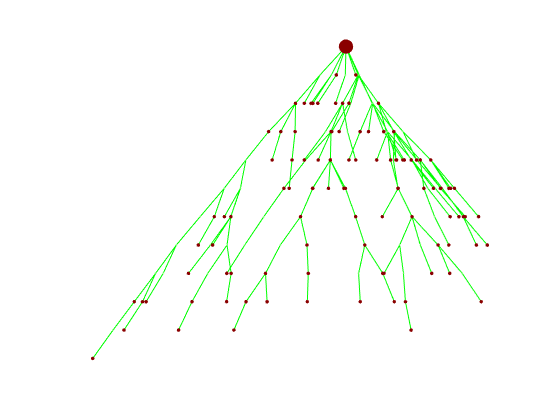
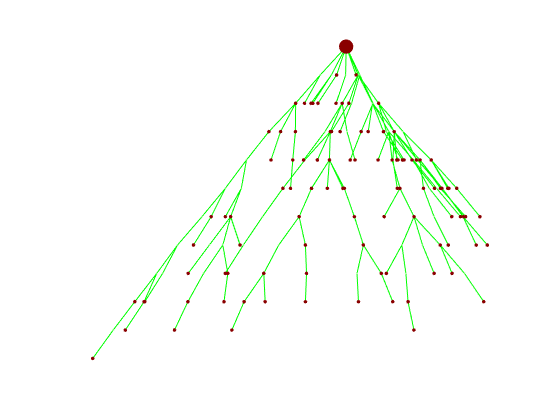
update demonstration

diff --git a/docs/index.html b/docs/index.html
@@ -6,7 +6,7 @@
    <!--
 This HTML was auto-generated from MATLAB code.
 To make changes, update the MATLAB code and republish this document.
-      --><title>index</title><meta name="generator" content="MATLAB 9.2"><link rel="schema.DC" href="http://purl.org/dc/elements/1.1/"><meta name="DC.date" content="2018-01-30"><meta name="DC.source" content="index.m"><style type="text/css">
+      --><title>Grow Lineages along Minimum Spanning Tree for B Cell Recptor Seqeuence Data</title><meta name="generator" content="MATLAB 9.2"><link rel="schema.DC" href="http://purl.org/dc/elements/1.1/"><meta name="DC.date" content="2018-01-30"><meta name="DC.source" content="index.m"><style type="text/css">
 html,body,div,span,applet,object,iframe,h1,h2,h3,h4,h5,h6,p,blockquote,pre,a,abbr,acronym,address,big,cite,code,del,dfn,em,font,img,ins,kbd,q,s,samp,small,strike,strong,sub,sup,tt,var,b,u,i,center,dl,dt,dd,ol,ul,li,fieldset,form,label,legend,table,caption,tbody,tfoot,thead,tr,th,td{margin:0;padding:0;border:0;outline:0;font-size:100%;vertical-align:baseline;background:transparent}body{line-height:1}ol,ul{list-style:none}blockquote,q{quotes:none}blockquote:before,blockquote:after,q:before,q:after{content:'';content:none}:focus{outine:0}ins{text-decoration:none}del{text-decoration:line-through}table{border-collapse:collapse;border-spacing:0}
 
 html { min-height:100%; margin-bottom:1px; }
@@ -66,7 +66,7 @@ table td { padding:7px 5px; text-align:left; vertical-align:top; border:1px soli
 
 
 
-  </style></head><body><div class="content"><h2>Contents</h2><div><ul><li><a href="#1">Prepare Environment</a></li><li><a href="#2">Simulate data</a></li><li><a href="#3">Run GLaMST and visualize the results</a></li><li><a href="#4">Generate lineage tree from real data</a></li></ul></div><h2 id="1">Prepare Environment</h2><p>Set working directory to the upzipped folder. If your matlab does not have C/C++ compiler setup, need to first install MinGW, instructions at following link (Home-&gt;Add-Ons-&gt;search MinGW-&gt;install) <a href="https://www.mathworks.com/help/matlab/matlab_external/install-mingw-support-package.html">https://www.mathworks.com/help/matlab/matlab_external/install-mingw-support-package.html</a></p><pre class="codeinput">restoredefaultpath;
+  </style></head><body><div class="content"><h1>Grow Lineages along Minimum Spanning Tree for B Cell Recptor Seqeuence Data</h1><!--introduction--><p>This page provides some examples of using source code version of GLaMST.</p><!--/introduction--><h2>Contents</h2><div><ul><li><a href="#1">Prepare environment</a></li><li><a href="#2">Simulate data</a></li><li><a href="#3">Run GLaMST and visualize the results</a></li><li><a href="#4">Generate lineage tree from real data</a></li></ul></div><h2 id="1">Prepare environment</h2><p>Set working directory to the upzipped folder. If your matlab does not have C/C++ compiler setup, need to first install MinGW, instructions at following link (Home-&gt;Add-Ons-&gt;search MinGW-&gt;install) <a href="https://www.mathworks.com/help/matlab/matlab_external/install-mingw-support-package.html">https://www.mathworks.com/help/matlab/matlab_external/install-mingw-support-package.html</a></p><pre class="codeinput">restoredefaultpath;
 addpath <span class="string">lib</span>
 addpath <span class="string">src</span>
 <span class="comment">% If your matlab does not have C/C++ copmiler setup, also run</span>
@@ -91,154 +91,68 @@ draw_hierarchy_tree(adj, is_selected');
     reconstruct_tree_minimun_tree_size(observed_sequences);
 draw_hierarchy_tree(reconstructed_directed_adj, reconstructed_is_selected);
 </pre><pre class="codeoutput">Reconstruction:
-    Initialization compute pairwise edit distance:   100 /   101Elapsed time is 2.063209 seconds.
-    Iteratived build the tree:     1 /   100    Iteratived build the tree:     2 /   100Elapsed time is 0.097324 seconds.
-    Iteratived build the tree:     3 /    99Elapsed time is 0.057774 seconds.
-    Iteratived build the tree:     4 /    98Elapsed time is 0.057003 seconds.
-    Iteratived build the tree:     5 /    98Elapsed time is 0.097420 seconds.
-    Iteratived build the tree:     6 /    97Elapsed time is 0.058706 seconds.
-    Iteratived build the tree:     7 /    96Elapsed time is 0.057239 seconds.
-    Iteratived build the tree:     8 /    96Elapsed time is 0.092075 seconds.
-    Iteratived build the tree:     9 /    96Elapsed time is 0.092663 seconds.
-    Iteratived build the tree:    10 /    95Elapsed time is 0.066948 seconds.
-    Iteratived build the tree:    11 /    95Elapsed time is 0.093314 seconds.
-    Iteratived build the tree:    12 /    95Elapsed time is 0.097233 seconds.
-    Iteratived build the tree:    13 /    94Elapsed time is 0.063328 seconds.
-    Iteratived build the tree:    14 /    94Elapsed time is 0.096990 seconds.
-    Iteratived build the tree:    15 /    93Elapsed time is 0.055171 seconds.
-    Iteratived build the tree:    16 /    92Elapsed time is 0.054795 seconds.
-    Iteratived build the tree:    17 /    92Elapsed time is 0.094328 seconds.
-    Iteratived build the tree:    18 /    91Elapsed time is 0.074787 seconds.
-    Iteratived build the tree:    19 /    90Elapsed time is 0.055302 seconds.
-    Iteratived build the tree:    20 /    90Elapsed time is 0.092734 seconds.
-    Iteratived build the tree:    21 /    89Elapsed time is 0.053776 seconds.
-    Iteratived build the tree:    22 /    88Elapsed time is 0.053098 seconds.
-    Iteratived build the tree:    23 /    87Elapsed time is 0.052712 seconds.
-    Iteratived build the tree:    24 /    87Elapsed time is 0.094187 seconds.
-    Iteratived build the tree:    25 /    87Elapsed time is 0.093970 seconds.
-    Iteratived build the tree:    26 /    86Elapsed time is 0.053987 seconds.
-    Iteratived build the tree:    27 /    85Elapsed time is 0.053594 seconds.
-    Iteratived build the tree:    28 /    84Elapsed time is 0.052939 seconds.
-    Iteratived build the tree:    29 /    83Elapsed time is 0.052698 seconds.
-    Iteratived build the tree:    30 /    83Elapsed time is 0.093515 seconds.
-    Iteratived build the tree:    31 /    83Elapsed time is 0.094099 seconds.
-    Iteratived build the tree:    32 /    83Elapsed time is 0.100089 seconds.
-    Iteratived build the tree:    33 /    82Elapsed time is 0.073351 seconds.
-    Iteratived build the tree:    34 /    82Elapsed time is 0.119826 seconds.
-    Iteratived build the tree:    35 /    81Elapsed time is 0.054922 seconds.
-    Iteratived build the tree:    36 /    81Elapsed time is 0.095595 seconds.
-    Iteratived build the tree:    37 /    80Elapsed time is 0.052479 seconds.
-    Iteratived build the tree:    38 /    80Elapsed time is 0.096076 seconds.
-    Iteratived build the tree:    39 /    79Elapsed time is 0.052370 seconds.
-    Iteratived build the tree:    40 /    78Elapsed time is 0.052210 seconds.
-    Iteratived build the tree:    41 /    78Elapsed time is 0.096447 seconds.
-    Iteratived build the tree:    42 /    77Elapsed time is 0.053584 seconds.
-    Iteratived build the tree:    43 /    76Elapsed time is 0.055781 seconds.
-    Iteratived build the tree:    44 /    76Elapsed time is 0.096923 seconds.
-    Iteratived build the tree:    45 /    75Elapsed time is 0.052403 seconds.
-    Iteratived build the tree:    46 /    74Elapsed time is 0.050937 seconds.
-    Iteratived build the tree:    47 /    73Elapsed time is 0.053455 seconds.
-    Iteratived build the tree:    48 /    73Elapsed time is 0.103933 seconds.
-    Iteratived build the tree:    49 /    72Elapsed time is 0.058678 seconds.
-    Iteratived build the tree:    50 /    71Elapsed time is 0.055317 seconds.
-    Iteratived build the tree:    51 /    70Elapsed time is 0.058069 seconds.
-    Iteratived build the tree:    52 /    69Elapsed time is 0.051343 seconds.
-    Iteratived build the tree:    53 /    68Elapsed time is 0.056700 seconds.
-    Iteratived build the tree:    54 /    68Elapsed time is 0.096008 seconds.
-    Iteratived build the tree:    55 /    67Elapsed time is 0.051301 seconds.
-    Iteratived build the tree:    56 /    66Elapsed time is 0.050802 seconds.
-    Iteratived build the tree:    57 /    66Elapsed time is 0.094922 seconds.
-    Iteratived build the tree:    58 /    65Elapsed time is 0.048600 seconds.
-    Iteratived build the tree:    59 /    64Elapsed time is 0.047914 seconds.
-    Iteratived build the tree:    60 /    63Elapsed time is 0.048086 seconds.
-    Iteratived build the tree:    61 /    62Elapsed time is 0.048302 seconds.
-    Iteratived build the tree:    62 /    62Elapsed time is 0.093667 seconds.
-    Iteratived build the tree:    63 /    61Elapsed time is 0.049048 seconds.
-    Iteratived build the tree:    64 /    61Elapsed time is 0.101637 seconds.
-    Iteratived build the tree:    65 /    60Elapsed time is 0.048189 seconds.
-    Iteratived build the tree:    66 /    59Elapsed time is 0.047870 seconds.
-    Iteratived build the tree:    67 /    58Elapsed time is 0.046675 seconds.
-    Iteratived build the tree:    68 /    57Elapsed time is 0.047349 seconds.
-    Iteratived build the tree:    69 /    56Elapsed time is 0.051590 seconds.
-    Iteratived build the tree:    70 /    55Elapsed time is 0.046293 seconds.
-    Iteratived build the tree:    71 /    55Elapsed time is 0.089495 seconds.
-    Iteratived build the tree:    72 /    54Elapsed time is 0.047590 seconds.
-    Iteratived build the tree:    73 /    54Elapsed time is 0.090626 seconds.
-    Iteratived build the tree:    74 /    53Elapsed time is 0.045832 seconds.
-    Iteratived build the tree:    75 /    52Elapsed time is 0.043632 seconds.
-    Iteratived build the tree:    76 /    51Elapsed time is 0.041963 seconds.
-    Iteratived build the tree:    77 /    50Elapsed time is 0.042059 seconds.
-    Iteratived build the tree:    78 /    49Elapsed time is 0.040300 seconds.
-    Iteratived build the tree:    79 /    48Elapsed time is 0.040195 seconds.
-    Iteratived build the tree:    80 /    48Elapsed time is 0.085666 seconds.
-    Iteratived build the tree:    81 /    47Elapsed time is 0.040191 seconds.
-    Iteratived build the tree:    82 /    46Elapsed time is 0.053747 seconds.
-    Iteratived build the tree:    83 /    45Elapsed time is 0.040425 seconds.
-    Iteratived build the tree:    84 /    44Elapsed time is 0.041344 seconds.
-    Iteratived build the tree:    85 /    44Elapsed time is 0.095211 seconds.
-    Iteratived build the tree:    86 /    43Elapsed time is 0.039994 seconds.
-    Iteratived build the tree:    87 /    43Elapsed time is 0.085759 seconds.
-    Iteratived build the tree:    88 /    42Elapsed time is 0.041693 seconds.
-    Iteratived build the tree:    89 /    41Elapsed time is 0.039587 seconds.
-    Iteratived build the tree:    90 /    41Elapsed time is 0.087935 seconds.
-    Iteratived build the tree:    91 /    40Elapsed time is 0.037178 seconds.
-    Iteratived build the tree:    92 /    39Elapsed time is 0.041629 seconds.
-    Iteratived build the tree:    93 /    38Elapsed time is 0.036061 seconds.
-    Iteratived build the tree:    94 /    37Elapsed time is 0.036564 seconds.
-    Iteratived build the tree:    95 /    36Elapsed time is 0.030875 seconds.
-    Iteratived build the tree:    96 /    35Elapsed time is 0.030464 seconds.
-    Iteratived build the tree:    97 /    34Elapsed time is 0.029607 seconds.
-    Iteratived build the tree:    98 /    33Elapsed time is 0.028958 seconds.
-    Iteratived build the tree:    99 /    32Elapsed time is 0.029557 seconds.
-    Iteratived build the tree:   100 /    31Elapsed time is 0.027587 seconds.
-    Iteratived build the tree:   101 /    30Elapsed time is 0.026431 seconds.
-    Iteratived build the tree:   102 /    29Elapsed time is 0.025121 seconds.
-    Iteratived build the tree:   103 /    28Elapsed time is 0.024856 seconds.
-    Iteratived build the tree:   104 /    27Elapsed time is 0.024176 seconds.
-    Iteratived build the tree:   105 /    27Elapsed time is 0.070279 seconds.
-    Iteratived build the tree:   106 /    26Elapsed time is 0.025747 seconds.
-    Iteratived build the tree:   107 /    25Elapsed time is 0.022441 seconds.
-    Iteratived build the tree:   108 /    24Elapsed time is 0.022101 seconds.
-    Iteratived build the tree:   109 /    24Elapsed time is 0.067976 seconds.
-    Iteratived build the tree:   110 /    23Elapsed time is 0.022293 seconds.
-    Iteratived build the tree:   111 /    22Elapsed time is 0.020540 seconds.
-    Iteratived build the tree:   112 /    21Elapsed time is 0.019641 seconds.
-    Iteratived build the tree:   113 /    21Elapsed time is 0.068744 seconds.
-    Iteratived build the tree:   114 /    20Elapsed time is 0.019082 seconds.
-    Iteratived build the tree:   115 /    19Elapsed time is 0.018356 seconds.
-    Iteratived build the tree:   116 /    19Elapsed time is 0.067131 seconds.
-    Iteratived build the tree:   117 /    18Elapsed time is 0.019570 seconds.
-    Iteratived build the tree:   118 /    18Elapsed time is 0.065829 seconds.
-    Iteratived build the tree:   119 /    18Elapsed time is 0.065863 seconds.
-    Iteratived build the tree:   120 /    17Elapsed time is 0.016696 seconds.
-    Iteratived build the tree:   121 /    16Elapsed time is 0.016216 seconds.
-    Iteratived build the tree:   122 /    15Elapsed time is 0.016266 seconds.
-    Iteratived build the tree:   123 /    14Elapsed time is 0.014102 seconds.
-    Iteratived build the tree:   124 /    14Elapsed time is 0.064317 seconds.
-    Iteratived build the tree:   125 /    13Elapsed time is 0.016343 seconds.
-    Iteratived build the tree:   126 /    12Elapsed time is 0.012204 seconds.
-    Iteratived build the tree:   127 /    11Elapsed time is 0.011262 seconds.
-    Iteratived build the tree:   128 /    11Elapsed time is 0.059521 seconds.
-    Iteratived build the tree:   129 /    10Elapsed time is 0.010530 seconds.
-    Iteratived build the tree:   130 /     9Elapsed time is 0.009567 seconds.
-    Iteratived build the tree:   131 /     8Elapsed time is 0.008683 seconds.
-    Iteratived build the tree:   132 /     8Elapsed time is 0.057772 seconds.
-    Iteratived build the tree:   133 /     7Elapsed time is 0.008702 seconds.
-    Iteratived build the tree:   134 /     6Elapsed time is 0.007783 seconds.
-    Iteratived build the tree:   135 /     5Elapsed time is 0.006527 seconds.
-    Iteratived build the tree:   136 /     5Elapsed time is 0.056364 seconds.
-    Iteratived build the tree:   137 /     4Elapsed time is 0.006104 seconds.
-    Iteratived build the tree:   138 /     3Elapsed time is 0.005279 seconds.
-    Iteratived build the tree:   139 /     3Elapsed time is 0.054277 seconds.
-    Iteratived build the tree:   140 /     2Elapsed time is 0.005885 seconds.
-    Iteratived build the tree:   141 /     2Elapsed time is 0.078826 seconds.
-    Iteratived build the tree:   142 /     1Elapsed time is 0.003664 seconds.
-    Iteratived build the tree:   143 /     0Elapsed time is 0.003433 seconds.
+    Initialization compute pairwise edit distance:   100 /   101Elapsed time is 2.069024 seconds.
+    Iteratived build the tree:     1 /   100    
+    Iteratived build the tree:     2 /   100Elapsed time is 0.110925 seconds.
+    Iteratived build the tree:     3 /    99Elapsed time is 0.065030 seconds.
+    Iteratived build the tree:     4 /    98Elapsed time is 0.060818 seconds.
+    Iteratived build the tree:     5 /    98Elapsed time is 0.095147 seconds.
+    Iteratived build the tree:     6 /    97Elapsed time is 0.065485 seconds.
+    Iteratived build the tree:     7 /    96Elapsed time is 0.061118 seconds.
+    Iteratived build the tree:     8 /    96Elapsed time is 0.100322 seconds.
+    Iteratived build the tree:     9 /    96Elapsed time is 0.098007 seconds.
+	......
+    Iteratived build the tree:   137 /     4Elapsed time is 0.006671 seconds.
+    Iteratived build the tree:   138 /     4Elapsed time is 0.056820 seconds.
+    Iteratived build the tree:   139 /     3Elapsed time is 0.005581 seconds.
+    Iteratived build the tree:   140 /     3Elapsed time is 0.056422 seconds.
+    Iteratived build the tree:   141 /     2Elapsed time is 0.004810 seconds.
+    Iteratived build the tree:   142 /     1Elapsed time is 0.004437 seconds.
+    Iteratived build the tree:   143 /     0Elapsed time is 0.004837 seconds.
     Trim the tree for un-necessary nodes ... 
     Rewire the tree to further reduce size ... 143 
-</pre><img vspace="5" hspace="5" src="index_02.png" alt=""> <h2 id="4">Generate lineage tree from real data</h2><p>Given this data is not yet publicly avaliable, we have simulated a dataset that has exactly the same topology as used in our paper. This simulated data is avaliable here <a href="https://github.com/xysheep/GLaMST/blob/master/demodata/real.fasta">https://github.com/xysheep/GLaMST/blob/master/demodata/real.fasta</a>. fsa = fastaread('demodata/real.fasta'); observed_sequences = fsa.Sequence; [reconstructed_nodes,mst_adj,reconstructed_is_selected, reconstructed_directed_adj] = ...     reconstruct_tree_minimun_tree_size(observed_sequences); draw_hierarchy_tree(reconstructed_directed_adj, reconstructed_is_selected);</p><p class="footer"><br><a href="http://www.mathworks.com/products/matlab/">Published with MATLAB&reg; R2017a</a><br></p></div><!--
+</pre><img vspace="5" hspace="5" src="index_02.png" alt=""> <h2 id="4">Generate lineage tree from real data</h2><p>Given this data is not yet publicly avaliable, we have simulated a dataset that has exactly the same topology as used in our paper ( with sequences order shuffled and nucleobase exchenged). This simulated data is avaliable here <a href="https://github.com/xysheep/GLaMST/blob/master/demodata">https://github.com/xysheep/GLaMST/blob/master/demodata</a>.</p><pre class="codeinput">fsa = fastaread(<span class="string">'demodata/real.fasta'</span>);
+observed_sequences = {fsa.Sequence}';
+
+[reconstructed_nodes,mst_adj,reconstructed_is_selected, reconstructed_directed_adj] = <span class="keyword">...</span>
+    reconstruct_tree_minimun_tree_size(observed_sequences);
+draw_hierarchy_tree(reconstructed_directed_adj, reconstructed_is_selected);
+</pre><pre class="codeoutput">Reconstruction:
+    Initialization compute pairwise edit distance:   541 /   542Elapsed time is 41.352283 seconds.
+    Iteratived build the tree:     1 /   541    Iteratived build the tree:     2 /   541Elapsed time is 1.228058 seconds.
+    Iteratived build the tree:     3 /   541Elapsed time is 1.224144 seconds.
+    Iteratived build the tree:     4 /   541Elapsed time is 1.197058 seconds.
+    Iteratived build the tree:     5 /   541Elapsed time is 1.184864 seconds.
+    Iteratived build the tree:     6 /   541Elapsed time is 1.184441 seconds.
+    Iteratived build the tree:     7 /   541Elapsed time is 1.159806 seconds.
+    Iteratived build the tree:     8 /   541Elapsed time is 1.148445 seconds.
+    Iteratived build the tree:     9 /   541Elapsed time is 1.134424 seconds.
+    Iteratived build the tree:    10 /   541Elapsed time is 1.110026 seconds.
+    Iteratived build the tree:    11 /   541Elapsed time is 1.108676 seconds.
+    Iteratived build the tree:    12 /   541Elapsed time is 1.110550 seconds.
+	......
+    Iteratived build the tree:  1821 /     6Elapsed time is 0.111987 seconds.
+    Iteratived build the tree:  1822 /     6Elapsed time is 0.654896 seconds.
+    Iteratived build the tree:  1823 /     5Elapsed time is 0.111856 seconds.
+    Iteratived build the tree:  1824 /     4Elapsed time is 0.114114 seconds.
+    Iteratived build the tree:  1825 /     3Elapsed time is 0.114263 seconds.
+    Iteratived build the tree:  1826 /     2Elapsed time is 0.115403 seconds.
+    Iteratived build the tree:  1827 /     1Elapsed time is 0.113039 seconds.
+    Iteratived build the tree:  1828 /     1Elapsed time is 0.655996 seconds.
+    Iteratived build the tree:  1829 /     0Elapsed time is 0.107025 seconds.
+    Trim the tree for un-necessary nodes ... 
+    Rewire the tree to further reduce size ... 1192 
+    Rewire the tree to further reduce size ... 1191   Elapsed time is 7.506025 seconds.
+    Rewire the tree to further reduce size ... 1190   Elapsed time is 3.985552 seconds.
+    Rewire the tree to further reduce size ... 1190   Elapsed time is 4.354102 seconds.
+    Rewire the tree to further reduce size ... 1190   Elapsed time is 4.321681 seconds.
+</pre><img vspace="5" hspace="5" src="index_03.png" alt=""> <p class="footer"><br><a href="http://www.mathworks.com/products/matlab/">Published with MATLAB&reg; R2017a</a><br></p></div><!--
 ##### SOURCE BEGIN #####
-%% Prepare Environment
+%% Grow Lineages along Minimum Spanning Tree for B Cell Recptor Seqeuence Data
+% This page provides some examples of using source code version of GLaMST.
+
+
+%% Prepare environment
 % Set working directory to the upzipped folder. If your matlab does not have
 % C/C++ compiler setup, need to first install MinGW, instructions at 
 % following link (Home->Add-Ons->search MinGW->install) 
@@ -279,14 +193,16 @@ draw_hierarchy_tree(reconstructed_directed_adj, reconstructed_is_selected);
 
 %% Generate lineage tree from real data
 % Given this data is not yet publicly avaliable, we have simulated a
-% dataset that has exactly the same topology as used in our paper. This
-% simulated data is avaliable here
-% <https://github.com/xysheep/GLaMST/blob/master/demodata/real.fasta>.
-% fsa = fastaread('demodata/real.fasta');
-% observed_sequences = fsa.Sequence;
-% [reconstructed_nodes,mst_adj,reconstructed_is_selected, reconstructed_directed_adj] = ...
-%     reconstruct_tree_minimun_tree_size(observed_sequences);
-% draw_hierarchy_tree(reconstructed_directed_adj, reconstructed_is_selected);
+% dataset that has exactly the same topology as used in our paper ( with
+% sequences order shuffled and nucleobase exchenged). This simulated data
+% is avaliable here
+% <https://github.com/xysheep/GLaMST/blob/master/demodata>.
+fsa = fastaread('demodata/real.fasta');
+observed_sequences = {fsa.Sequence}';
+
+[reconstructed_nodes,mst_adj,reconstructed_is_selected, reconstructed_directed_adj] = ...
+    reconstruct_tree_minimun_tree_size(observed_sequences);
+draw_hierarchy_tree(reconstructed_directed_adj, reconstructed_is_selected);
 
 ##### SOURCE END #####
 --></body></html>

diff --git a/index.m b/index.m
@@ -1,4 +1,8 @@
-%% Prepare Environment
+%% Grow Lineages along Minimum Spanning Tree for B Cell Recptor Seqeuence Data
+% This page provides some examples of using source code version of GLaMST.
+
+
+%% Prepare environment
 % Set working directory to the upzipped folder. If your matlab does not have
 % C/C++ compiler setup, need to first install MinGW, instructions at 
 % following link (Home->Add-Ons->search MinGW->install) 
@@ -39,11 +43,13 @@ draw_hierarchy_tree(reconstructed_directed_adj, reconstructed_is_selected);
 
 %% Generate lineage tree from real data
 % Given this data is not yet publicly avaliable, we have simulated a
-% dataset that has exactly the same topology as used in our paper. This
-% simulated data is avaliable here
-% <https://github.com/xysheep/GLaMST/blob/master/demodata/real.fasta>.
-% fsa = fastaread('demodata/real.fasta');
-% observed_sequences = fsa.Sequence;
-% [reconstructed_nodes,mst_adj,reconstructed_is_selected, reconstructed_directed_adj] = ...
-%     reconstruct_tree_minimun_tree_size(observed_sequences);
-% draw_hierarchy_tree(reconstructed_directed_adj, reconstructed_is_selected);
+% dataset that has exactly the same topology as used in our paper ( with
+% sequences order shuffled and nucleobase exchenged). This simulated data
+% is avaliable here
+% <https://github.com/xysheep/GLaMST/blob/master/demodata>.
+fsa = fastaread('demodata/real.fasta');
+observed_sequences = {fsa.Sequence}';
+
+[reconstructed_nodes,mst_adj,reconstructed_is_selected, reconstructed_directed_adj] = ...
+    reconstruct_tree_minimun_tree_size(observed_sequences);
+draw_hierarchy_tree(reconstructed_directed_adj, reconstructed_is_selected);

diff --git a/src/reconstruct_tree_minimun_tree_size.m b/src/reconstruct_tree_minimun_tree_size.m
@@ -1,5 +1,6 @@
 function [all_sequences,mst_adj,reconstructed_observed_indicator, reconstructed_directed_adj] = reconstruct_tree_minimun_tree_size(observed_sequences, rewire)
-
+% Remove replicated sequences
+observed_sequences = [observed_sequences(1); unique(observed_sequences(2:end))]; 
 if ~exist('rewire','var')
     rewire = 1;
 end
@@ -29,7 +30,7 @@ reconstructed_observed_indicator = zeros(size(all_sequences)); reconstructed_obs
 reconstructed_directed_adj = zeros(size(all_sequences));
 
 fprintf('    Iteratived build the tree: %5d / %5d',sum(reconstructed_indicator),length(observed_sequences)-sum(reconstructed_observed_indicator));
-
+k = 0;
 while sum(reconstructed_indicator==0)~=0
     tic
     
@@ -136,9 +137,9 @@ while sum(reconstructed_indicator==0)~=0
         
     % display progress
 %     fprintf('\b\b\b\b\b\b\b\b\b\b\b\b\b%5d / %5d',sum(reconstructed_indicator),length(observed_sequences)-sum(reconstructed_observed_indicator));
-
     fprintf('    Iteratived build the tree: %5d / %5d',sum(reconstructed_indicator),length(observed_sequences)-sum(reconstructed_observed_indicator));
     toc
+    k = k + 1;
     %save reconstruct_tree_minimun_tree_size_tmp.mat
 
 end
